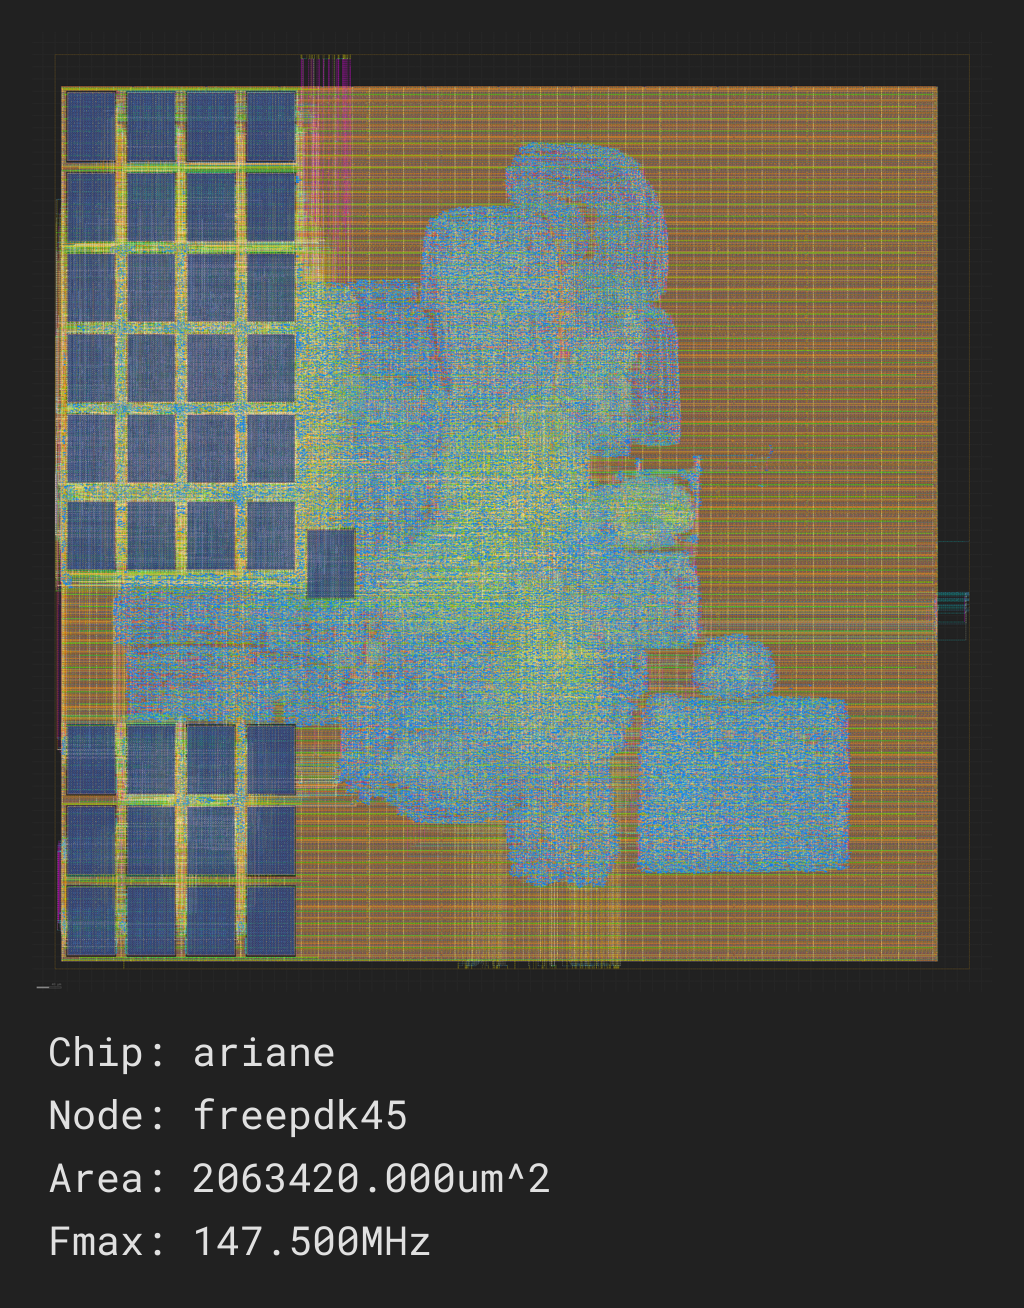
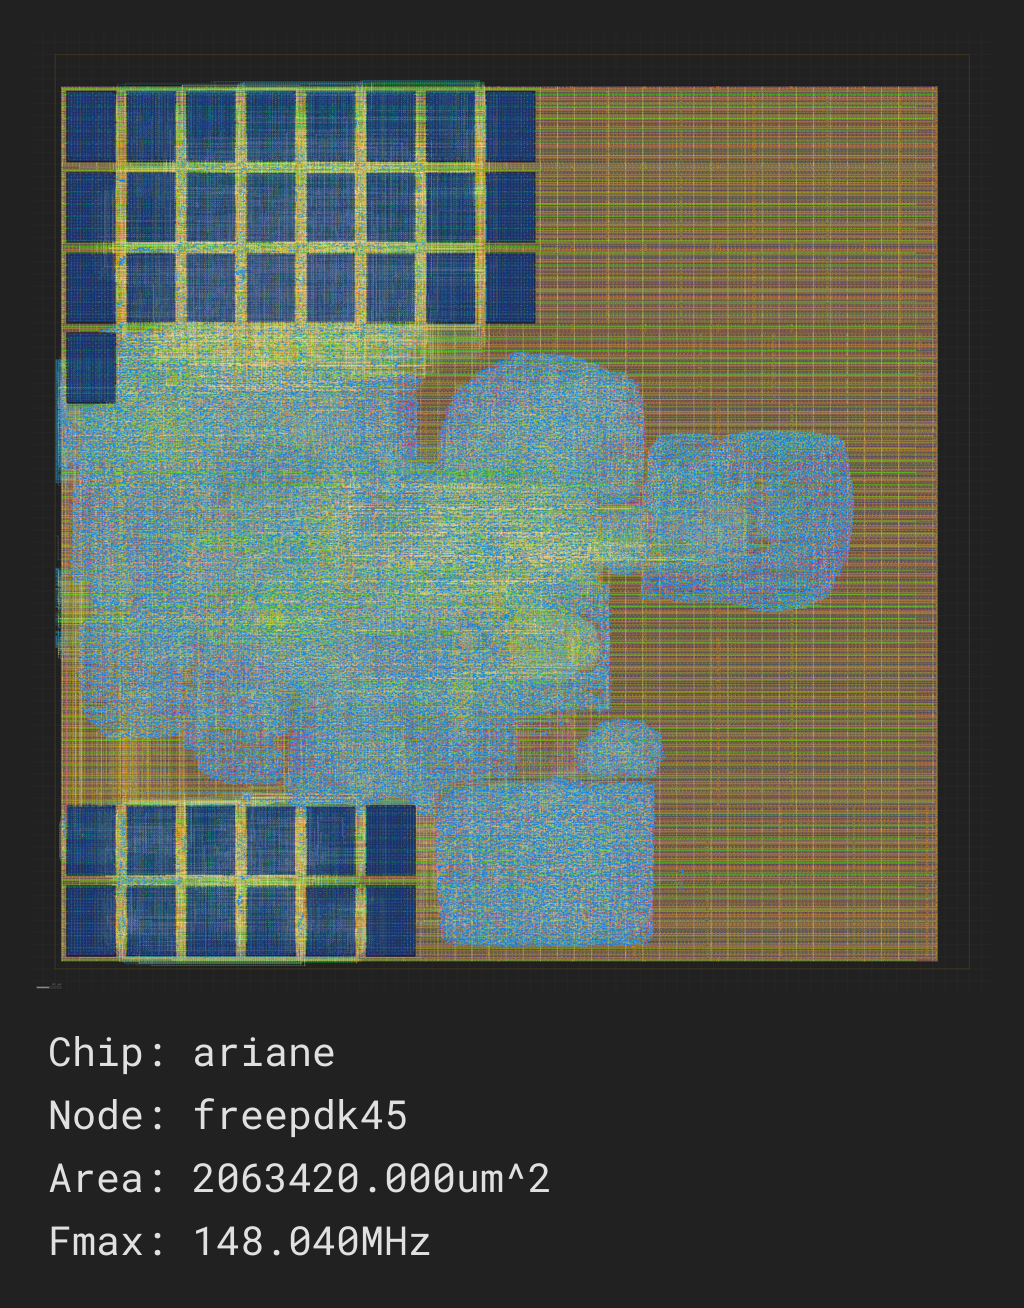
add ariane image

diff --git a/scgallery/designs/ariane/ariane.py b/scgallery/designs/ariane/ariane.py
@@ -82,27 +82,26 @@ def setup(target=freepdk45_demo):
         chip.set('tool', 'openroad', 'task', 'floorplan', 'var',
                  'macro_place_channel',
                  ['20', '20'])
-        chip.set('tool', 'openroad', 'task', 'floorplan', 'var',
-                 'rtlmp_min_instances',
-                 '5000')
-        chip.set('tool', 'openroad', 'task', 'floorplan', 'var',
-                 'rtlmp_max_instances',
-                 '30000')
-        chip.set('tool', 'openroad', 'task', 'floorplan', 'var',
-                 'rtlmp_min_macros',
-                 '16')
-        chip.set('tool', 'openroad', 'task', 'floorplan', 'var',
-                 'rtlmp_max_macros',
-                 '4')
     elif mainlib.startswith('asap7sc7p5t'):
         chip.set('constraint', 'density', 40)
         chip.set('tool', 'openroad', 'task', 'route', 'var', 'M2_adjustment', '0.7')
         chip.set('tool', 'openroad', 'task', 'route', 'var', 'M3_adjustment', '0.6')
-        chip.set('tool', 'openroad', 'task', 'route', 'var', 'grt_signal_max_layer', 'M8')
-        chip.set('tool', 'openroad', 'task', 'route', 'var', 'grt_clock_max_layer', 'M8')
-        chip.set('pdk', 'asap7', 'maxlayer', chip.get('option', 'stackup'), 'M8')
+        chip.set('tool', 'openroad', 'task', 'place', 'var', 'gpl_uniform_placement_adjustment', '0.05')
     elif mainlib.startswith('sky130'):
         chip.set('constraint', 'density', 40)
+
+    chip.set('tool', 'openroad', 'task', 'floorplan', 'var',
+                'rtlmp_min_instances',
+                '5000')
+    chip.set('tool', 'openroad', 'task', 'floorplan', 'var',
+                'rtlmp_max_instances',
+                '30000')
+    chip.set('tool', 'openroad', 'task', 'floorplan', 'var',
+                'rtlmp_min_macros',
+                '16')
+    chip.set('tool', 'openroad', 'task', 'floorplan', 'var',
+                'rtlmp_max_macros',
+                '4')
 
     return chip
 
